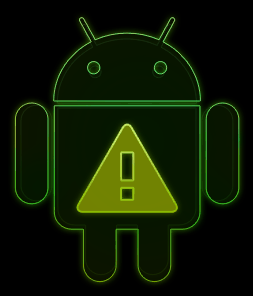
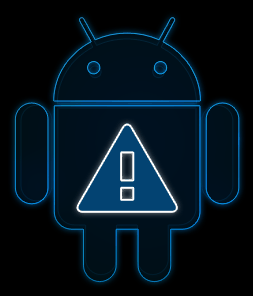
change recovery images to match blue holo theme

diff --git a/ui.c b/ui.c
@@ -45,7 +45,7 @@ UIParameters ui_parameters = {
     6,       // indeterminate progress bar frames
     20,      // fps
     7,       // installation icon frames (0 == static image)
-    23, 83,  // installation icon overlay offset
+    33, 83,  // installation icon overlay offset
 };
 
 static pthread_mutex_t gUpdateMutex = PTHREAD_MUTEX_INITIALIZER;
